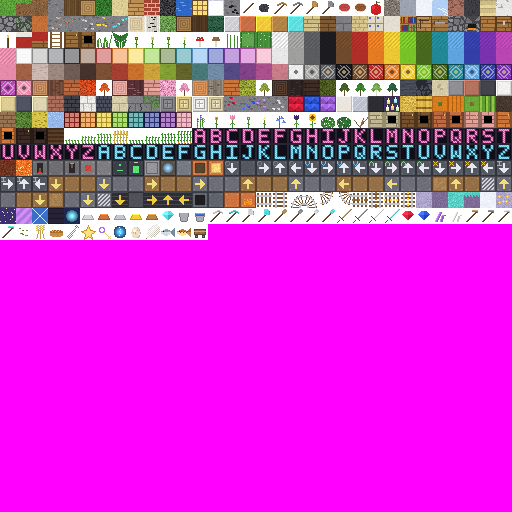
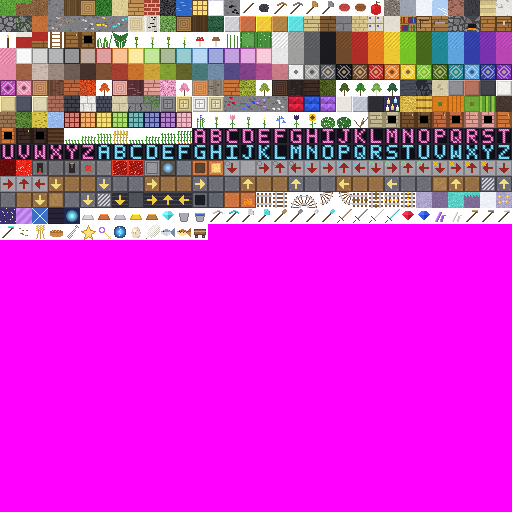
Machines closer to the familiar blocky look
- Wire dust is red: dark when idle, bright red with sparks when powered;
  with one neighbour it runs straight through as a line.
- Power cell: a glowing block of packed red crystal.
- Gates: light smooth stone chips with two little torches on top (stick and
  a red tip, lit while the gate gives power) instead of a lamp and a nub.
- Pusher: a stone body with a wooden pushing plate on its front; while the
  head is out the plate has moved with it (wooden plate on a wooden rod).
- Switch: a thinner stick leaning smoothly out of a cobblestone base.

Claude-Session: https://claude.ai/code/session_016rzuTQKFoJD2sscWN2nTLT

Changed region(s): [[0.4375, 0.3125, 1.0, 0.3438], [0.0, 0.3125, 0.0938, 0.375], [0.2188, 0.3125, 0.2812, 0.3438]]

diff --git a/textures.py b/textures.py
@@ -1577,7 +1577,7 @@ def wire(on):
     """Glittering copper dust: dull when no power runs through it, bright with sparks when it does."""
     def gen(rng):
         img = _blank()
-        base = (255, 118, 40) if on else (112, 52, 34)
+        base = (255, 40, 28) if on else (104, 14, 12)
         for x in range(TILE):
             for y in range(TILE):
                 k = 1 + rng.uniform(-0.25, 0.2)
@@ -1585,7 +1585,7 @@ def wire(on):
         sparks = 18 if on else 6
         for _ in range(sparks):
             x, y = rng.randrange(TILE), rng.randrange(TILE)
-            _px(img, x, y, (255, 226, 150) if on else (150, 80, 52))
+            _px(img, x, y, (255, 170, 150) if on else (140, 30, 26))
         return img
     return gen
 
@@ -1616,20 +1616,20 @@ def button_top(rng):
 
 
 def power_cell(rng):
-    img = _plate((60, 64, 74))(rng)
-    for y in range(3, 13):
-        for x in range(5, 11):
-            img.putpixel((x, y), _shade((90, 230, 120) if y > 5 else (60, 60, 64), 1 + rng.uniform(-0.1, 0.1)) + (255,))
-    for x in (6, 7, 8, 9):
-        img.putpixel((x, 2), (200, 200, 200, 255))
+    """A block of packed red power crystal: always gives power, glowing seams."""
+    img = _blank()
+    for x in range(TILE):
+        for y in range(TILE):
+            seam = x in (0, 15) or y in (0, 15) or (x + 2 * y) % 7 == 0
+            c = (230, 60, 40) if seam else (150, 24, 20)
+            _px(img, x, y, _shade(c, 1 + rng.uniform(-0.15, 0.15)))
+    for _ in range(10):
+        _px(img, rng.randrange(1, 15), rng.randrange(1, 15), (255, 150, 120))
     return img
 
 
 def power_cell_top(rng):
-    img = _plate((60, 64, 74))(rng)
-    for x, y in ((7, 4), (8, 4), (7, 5), (8, 5), (5, 10), (6, 10), (7, 10), (8, 10), (9, 10), (10, 10)):
-        img.putpixel((x, y), (90, 230, 120, 255))
-    return img
+    return power_cell(rng)
 
 
 def pressure_plate(rng):
@@ -1672,10 +1672,19 @@ GATE_COLORS = {"not": (230, 80, 80), "and": (90, 200, 255), "or": (120, 230, 120
                "delay": (210, 140, 255)}
 
 
+def smooth_stone(rng):
+    """Light smooth stone with a thin darker rim: the chip gates sit on."""
+    img = _noise(rng, (164, 164, 168), 0.04).convert("RGBA")
+    for i in range(TILE):
+        for x, y in ((i, 0), (i, 15), (0, i), (15, i)):
+            img.putpixel((x, y), (126, 126, 130, 255))
+    return img
+
+
 def gate(kind, facing):
     def gen(rng):
-        img = _plate((84, 88, 98))(rng)
-        _arrow_on(img, (230, 230, 236), {0: 2, 1: 1, 2: 0, 3: 3}[facing])
+        img = smooth_stone(rng)
+        _arrow_on(img, (150, 40, 34), {0: 2, 1: 1, 2: 0, 3: 3}[facing])
         for r, row in enumerate(GATE_SYMBOLS[kind]):
             for c, ch in enumerate(row):
                 if ch == "1":
@@ -1799,7 +1808,7 @@ EXTRA_GENERATORS.update({
     "power_cell": power_cell, "power_cell_top": power_cell_top, "pressure_plate": pressure_plate,
     "light_sensor": light_sensor, "machine_side": _plate(), "machine_bottom": _plate((80, 82, 90), rivets=False),
     "powered_lamp_off": powered_lamp(False), "powered_lamp_on": powered_lamp(True),
-    "gate_side": _plate((84, 88, 98)), "collector_top": collector_top, "collector_side": _plate((96, 100, 110)),
+    "gate_side": smooth_stone, "collector_top": collector_top, "collector_side": _plate((96, 100, 110)),
     "smelter_top": _plate(COPPER), "smelter_front": smelter_front,
 })
 for _kind in GATE_SYMBOLS:

diff --git a/blocks.py b/blocks.py
@@ -385,7 +385,7 @@ for _g, _gate in enumerate(GATES):
 for _f in range(6):
     for _base, _m in ((1730, "pusher"), (1736, "breaker")):
         _logic(_base + _f, _m, (f"{_m}_top_{_f}", f"{_m}_side_{_f}", f"{_m}_bottom_{_f}"), _m, facing=_f,
-               creative=_f == 0, drop=_base, hardness=1.5)
+               creative=_f == 0, drop=_base, hardness=1.5, shape="pusher" if _m == "pusher" else CUBE)
 for _f in range(4):
     _logic(1742 + _f, "conveyor belt", (f"conveyor_{_f}", "machine_side", "machine_bottom"), "conveyor", shape=SLAB,
            facing=_f, creative=_f == 0, drop=1742, hardness=0.8)
